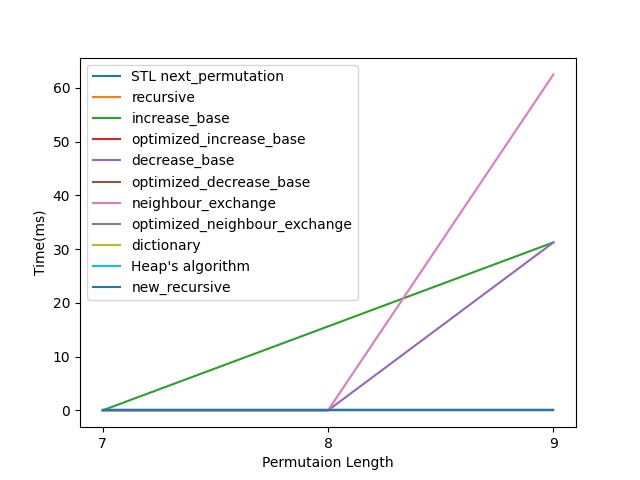
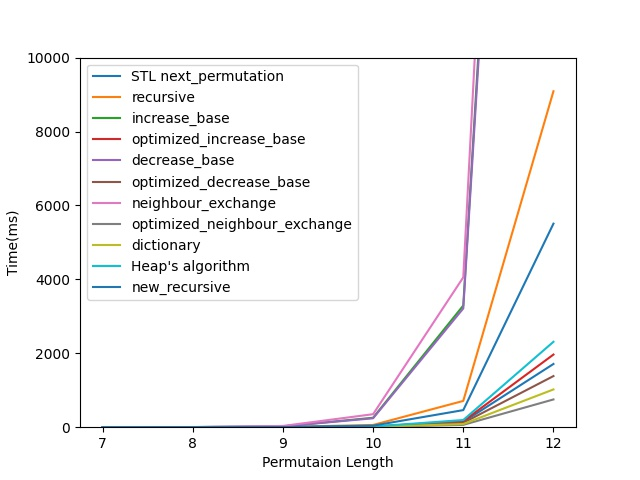
运行开销图添加，对应的效果对比文字；

diff --git a/performance_test.py b/performance_test.py
@@ -5,7 +5,7 @@ from matplotlib.ticker import MaxNLocator
 
 plt.gca().xaxis.set_major_locator(MaxNLocator(integer=True))
 
-target_length = range(8,16)
+target_length = range(7,13)
 test_times = 10
 
 result_maps = {}

diff --git a/report.md b/report.md
@@ -77,9 +77,23 @@
 
 ![result_fig2](fig/result2.jpg)
 
-在去掉输出时间的情况下，对上述报告中提到的所有算法做了性能的测试。图一展示了单词运行的效果，图二则展示了运行时间随序列长度的增长规律。
+在去掉输出时间的情况下，对上述报告中提到的所有算法做了性能的测试。图一展示了单次运行的效果，图二则展示了运行时间随序列长度(7-12)的增长规律。(由于不经优化的版本开销过高，只绘制了10000ms以下的结果)
 
-四种课程内算法(优化后)性能从高到低排序大致为邻位对换，递减进制数，字典序，递增进制数，均快于STL版本。另外针对各个版本的调优和重新设计，性能提升也很明显。
+四种课程内算法(优化后)性能从高到低排序大致为邻位对换，递减进制数，字典序，递增进制数，均快于STL版本。另外针对各个版本的调优和重新设计，性能提升也很明显。以长度为12的全排列速度为例，运行时间开销如下表所示。
+
+| 算法名称 | 运行时间(ms) |
+|-|-|
+| STL next_permutation | 1710.91 |
+|Recursive| 9090.34|
+|Increase_base| 43855.91 |
+|Optimized_increase_base| 1965.40|
+|Decrease_base| 42827.44|
+|Optimized_decrease_base| 1383.25|
+|Neighbour_exchange| 50748.60|
+|Optimized_neighbour_exchange| 750.85|
+|Dictionary| 1021.66|
+|Heap's algorithm| 2310.80|
+|New_recursive| 5507.32|
 
 ### 仓库说明
 
